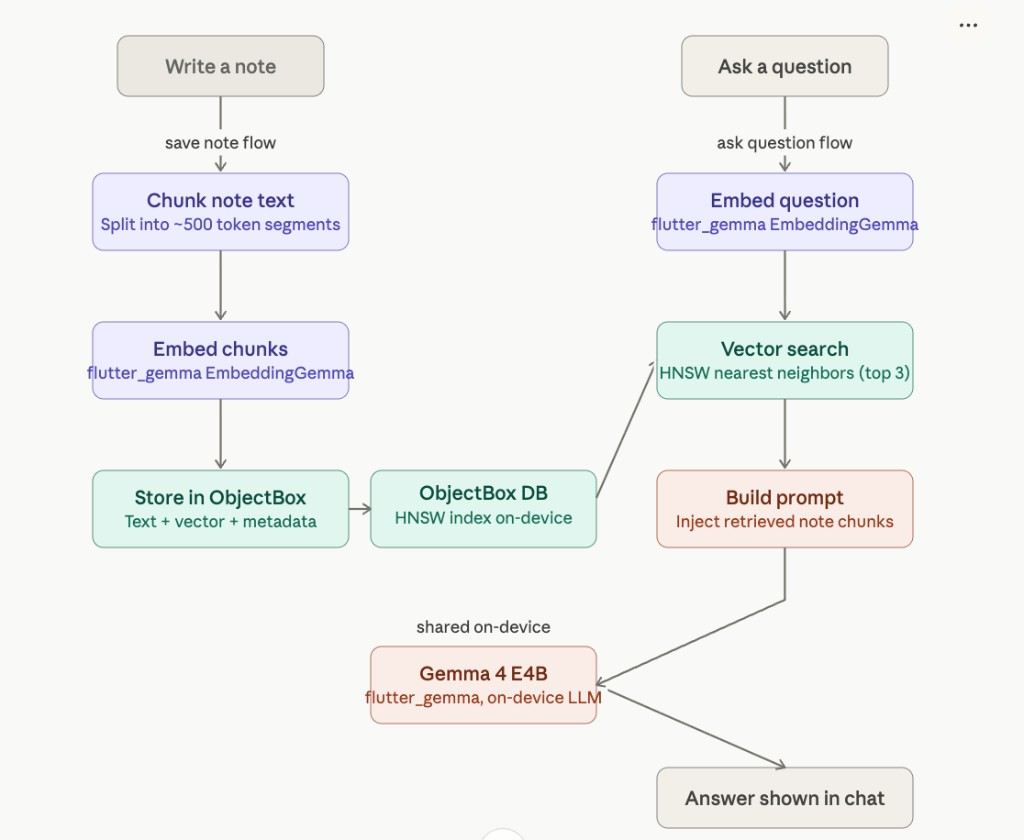
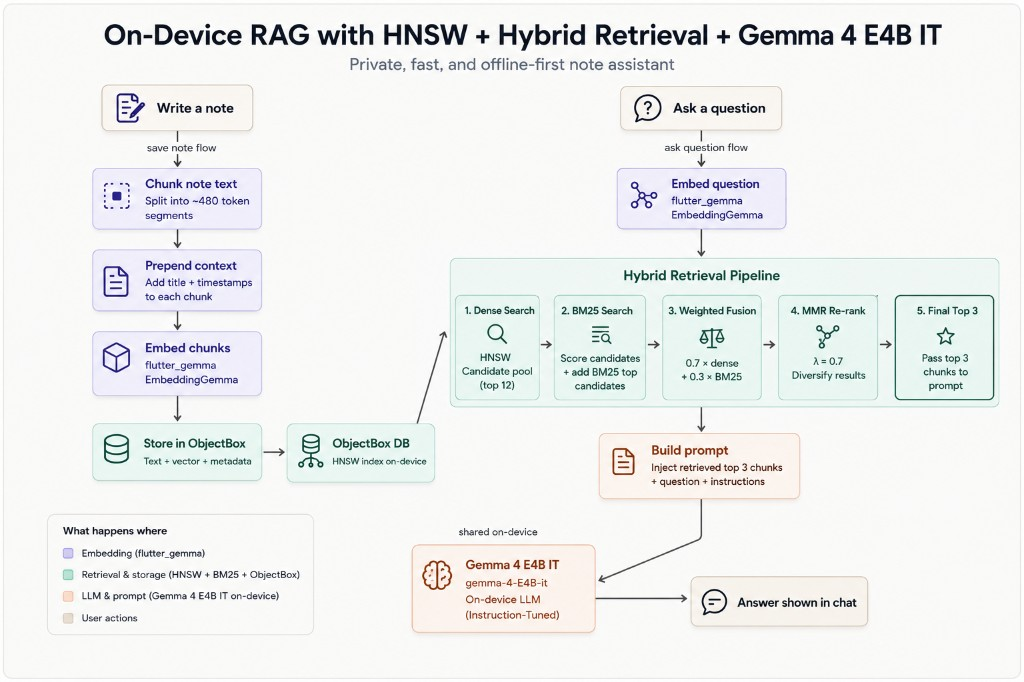
Update README to reflect enhancements in on-device RAG architecture and note processing flow
- Clarified the use of `flutter_gemma` for embeddings and inference, specifying the models involved.
- Updated the note chunking process to include context and adjusted token limits.
- Enhanced the hybrid retrieval process description, detailing the scoring and re-ranking methods used.
- Revised the architecture diagram to align with the new workflows.

Changed region(s): [[0.0625, 0.0308, 1.0, 0.9853], [0.0625, 0.7698, 0.2812, 0.9238]]

diff --git a/README.md b/README.md
@@ -73,24 +73,25 @@ IDE tip: the repo includes [`.vscode/settings.json`](.vscode/settings.json) poin
 
 ## Architecture
 
-On-device RAG uses `flutter_gemma` for embeddings and inference, and **ObjectBox** as the local vector store (HNSW index).
+On-device RAG uses `flutter_gemma` for embeddings and inference (**EmbeddingGemma** + **gemma-4-E4B-it**), **ObjectBox** as the local vector store (HNSW), and **hybrid retrieval** (dense + BM25, fusion, and MMR) before prompting.
 
 ![On-device RAG architecture](docs/assets/rag-architecture.png)
 
 ### Save note flow
 
 1. **Write a note** — user creates content.
-2. **Chunk note text** — split into segments (about 500 tokens).
-3. **Embed chunks** — `EmbeddingGemma` (`flutter_gemma`) produces vectors.
-4. **Store in ObjectBox** — text, vectors, and metadata are indexed (HNSW) for search.
+2. **Chunk note text** — split into segments (about 480 tokens).
+3. **Prepend context** — title and timestamps are attached to each chunk.
+4. **Embed chunks** — `EmbeddingGemma` (`flutter_gemma`) produces vectors.
+5. **Store in ObjectBox** — text, vectors, and metadata are indexed (HNSW) for search.
 
 ### Ask question flow
 
 1. **Ask a question** — user query in chat.
 2. **Embed question** — same `EmbeddingGemma` model as for notes.
-3. **Vector search** — nearest neighbors in ObjectBox (e.g. top chunks).
-4. **Build prompt** — retrieved chunks are injected into a template (`RagService`).
-5. **Gemma (on-device)** — `flutter_gemma` runs the on-device LLM on the prompt.
+3. **Hybrid retrieval** — dense HNSW pool (top 12), BM25 scoring, weighted fusion (`0.7 × dense + 0.3 × BM25`), MMR re-rank (λ = 0.7), then **top 3** chunks for the prompt.
+4. **Build prompt** — retrieved chunks, the question, and instructions (`RagService`).
+5. **Gemma 4 E4B IT (on-device)** — instruction-tuned model via `flutter_gemma`.
 6. **Answer in chat** — response is shown to the user.
 
 ## Project layout (high level)